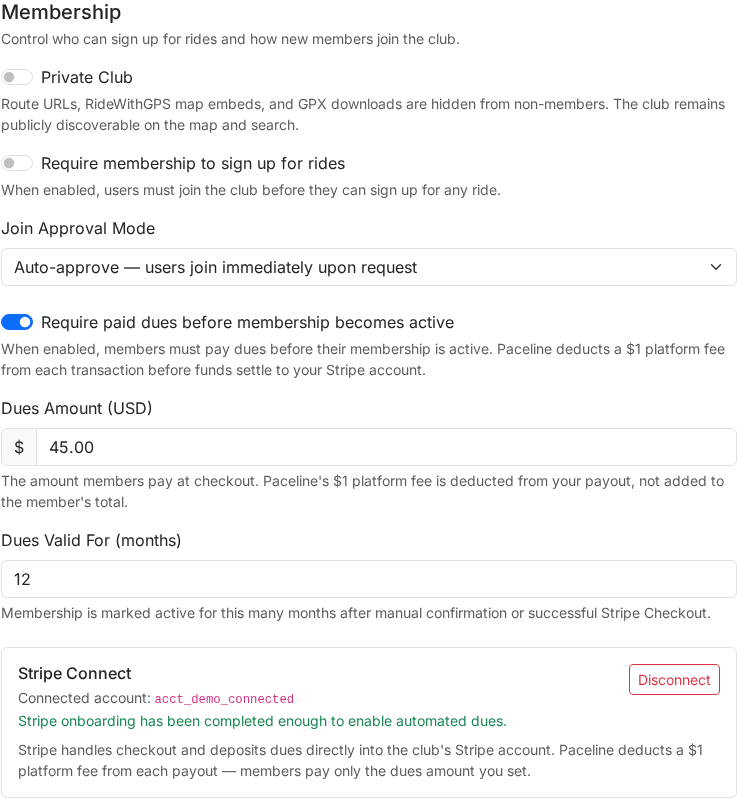
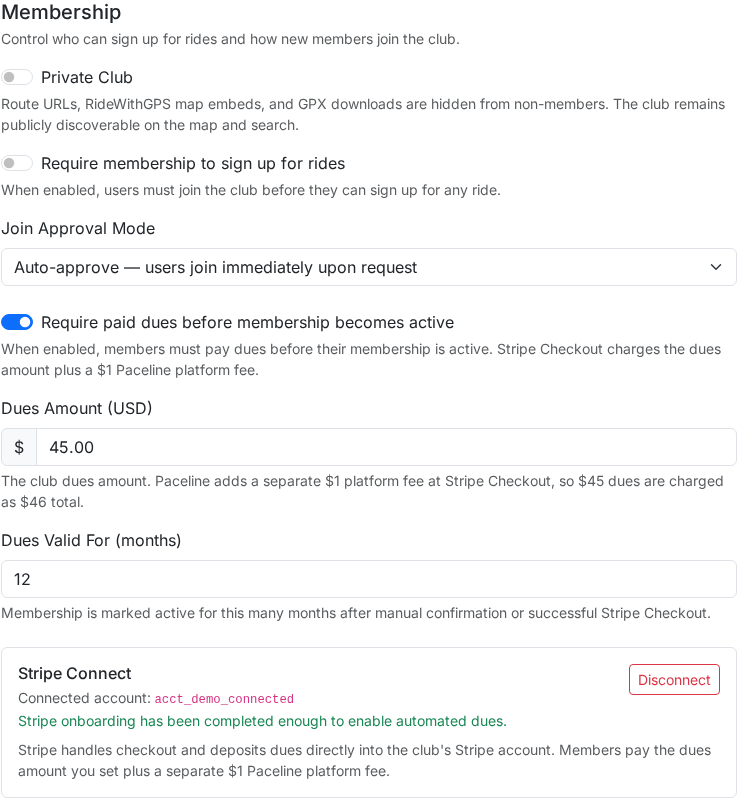
v0.122: finalize launch readiness and Stripe fee flow

diff --git a/app/templates/admin/club_settings.html b/app/templates/admin/club_settings.html
@@ -298,7 +298,7 @@
             {{ form.membership_dues_required(class="form-check-input", role="switch", id="membership_dues_required") }}
             {{ form.membership_dues_required.label(class="form-check-label", for="membership_dues_required") }}
           </div>
-          <div class="form-text">When enabled, members must pay dues before their membership is active. Paceline deducts a $1 platform fee from each transaction before funds settle to your Stripe account.</div>
+          <div class="form-text">When enabled, members must pay dues before their membership is active. Stripe Checkout charges the dues amount plus a $1 Paceline platform fee.</div>
         </div>
 
         <div class="mb-3">
@@ -308,7 +308,7 @@
             {{ form.membership_dues_amount(class="form-control" + (" is-invalid" if form.membership_dues_amount.errors else ""), placeholder="40.00", min="1", step="0.01") }}
             {% for e in form.membership_dues_amount.errors %}<div class="invalid-feedback">{{ e }}</div>{% endfor %}
           </div>
-          <div class="form-text">The amount members pay at checkout. Paceline's $1 platform fee is deducted from your payout, not added to the member's total.</div>
+          <div class="form-text">The club dues amount. Paceline adds a separate $1 platform fee at Stripe Checkout, so $45 dues are charged as $46 total.</div>
         </div>
 
         <div class="mb-4">
@@ -347,7 +347,7 @@
               {% endif %}
             </div>
           </div>
-          <div class="form-text mt-2">Stripe handles checkout and deposits dues directly into the club's Stripe account. Paceline deducts a $1 platform fee from each payout — members pay only the dues amount you set.</div>
+          <div class="form-text mt-2">Stripe handles checkout and deposits dues directly into the club's Stripe account. Members pay the dues amount you set plus a separate $1 Paceline platform fee.</div>
         </div>
 
         </div>{# /membership-section #}

diff --git a/app/templates/help/club_managers.html b/app/templates/help/club_managers.html
@@ -339,12 +339,11 @@
         </p>
         <p class="section-body">
           Payments are processed as <strong>direct charges</strong> on your club's
-          connected Stripe account, meaning the funds go directly into your club's
-          Stripe balance. Paceline does not hold club dues — it acts only as a
-          platform facilitator. Paceline deducts a <strong>$1 platform fee</strong>
-          from each transaction before the funds settle to your Stripe account. The
-          rider sees only the dues amount you set; the $1 comes from the club's
-          payout, not from the member's card total. Clubs handle their own refunds,
+          connected Stripe account, meaning the charge is created on your club's
+          Stripe account. Paceline does not hold club dues — it acts only as a
+          platform facilitator. Paceline adds a separate <strong>$1 platform fee</strong>
+          to each checkout. For example, if your club sets dues at $45, the rider
+          pays $46 total at Stripe Checkout. Clubs handle their own refunds,
           payment questions, and disputes through their Stripe account. Paceline's
           $1 platform fee is not refunded when a club refunds dues.
         </p>
@@ -369,8 +368,8 @@
           </li>
           <li>
             Enter the <strong>Dues Amount</strong> — the amount your club charges
-            per membership period. This is what the member pays; Paceline's $1
-            platform fee comes from the club's payout.
+            per membership period. Paceline adds a separate $1 platform fee at
+            checkout, so $45 dues are charged as $46 total.
           </li>
           <li>
             Set the <strong>Membership Duration</strong> in months. Paceline

diff --git a/app/templates/clubs/home.html b/app/templates/clubs/home.html
@@ -102,7 +102,7 @@
             <input type="hidden" name="csrf_token" value="{{ csrf_token() }}" />
             <button class="btn btn-paceline">Pay Club Dues</button>
           </form>
-          <p class="text-white-50 small mb-0 mt-1">Your membership activates automatically after payment. Paceline deducts a $1 platform fee from the club payout; members pay only the dues amount set by the club.</p>
+          <p class="text-white-50 small mb-0 mt-1">Your membership activates automatically after payment. Stripe Checkout charges the club dues plus a $1 Paceline platform fee.</p>
           {% else %}
           <span class="btn btn-outline-light disabled">Payment Pending</span>
           <p class="text-white-50 small mb-0 mt-1">A club admin needs to confirm your dues payment.</p>

diff --git a/app/templates/help/riders.html b/app/templates/help/riders.html
@@ -97,8 +97,9 @@
           active automatically — you do not need to wait for a club admin to confirm.
         </p>
         <p class="section-body">
-          The amount you see at Stripe Checkout is exactly what the club set as
-          their dues amount. Paceline does not add any fees visible to you.
+          The amount you see at Stripe Checkout is the club dues amount plus a
+          separate $1 Paceline platform fee. For example, if the club sets dues
+          at $45, Stripe Checkout charges $46 total.
         </p>
         <figure class="mb-0">
           <img class="img-fluid rounded border shadow-sm"

diff --git a/app/stripe_connect.py b/app/stripe_connect.py
@@ -90,9 +90,9 @@ def retrieve_connected_account(account_id):
 def create_checkout_session(*, club, user, membership, payment, success_url, cancel_url):
     """Create a Checkout Session as a direct charge on the club's connected account.
 
-    The platform fee (application_fee_amount) is deducted from the charge
-    before the remaining funds settle to the connected account. The fee is
-    invisible to the customer — they see only the membership line item.
+    The member pays the club dues amount plus Paceline's platform fee. Stripe
+    creates the charge on the connected club account and transfers the platform
+    fee to Paceline with application_fee_amount.
 
     The webhook that handles checkout.session.completed must be registered
     in the Stripe dashboard as a Connect webhook so it receives events from
@@ -103,6 +103,9 @@ def create_checkout_session(*, club, user, membership, payment, success_url, can
         raise StripeConnectError('This club has not connected Stripe.')
 
     platform_fee_cents = current_app.config.get('STRIPE_PLATFORM_FEE_CENTS', 100)
+    club_dues_cents = payment.amount_cents - platform_fee_cents
+    if club_dues_cents <= 0:
+        raise StripeConnectError('Invalid dues amount for checkout.')
 
     data = {
         'mode': 'payment',
@@ -112,14 +115,21 @@ def create_checkout_session(*, club, user, membership, payment, success_url, can
         'customer_email': user.email,
         'line_items[0][quantity]': '1',
         'line_items[0][price_data][currency]': club.membership_dues_currency or 'usd',
-        'line_items[0][price_data][unit_amount]': str(payment.amount_cents),
+        'line_items[0][price_data][unit_amount]': str(club_dues_cents),
         'line_items[0][price_data][product_data][name]': f'{club.name} — {club.membership_duration_months}-Month Membership',
         'line_items[0][price_data][product_data][description]': 'Cycling club membership',
+        'line_items[1][quantity]': '1',
+        'line_items[1][price_data][currency]': club.membership_dues_currency or 'usd',
+        'line_items[1][price_data][unit_amount]': str(platform_fee_cents),
+        'line_items[1][price_data][product_data][name]': 'Paceline platform fee',
+        'line_items[1][price_data][product_data][description]': 'Supports Paceline payment processing and platform development',
         'payment_intent_data[application_fee_amount]': str(platform_fee_cents),
         'metadata[payment_id]': str(payment.id),
         'metadata[club_id]': str(club.id),
         'metadata[user_id]': str(user.id),
         'metadata[membership_id]': str(membership.id),
+        'metadata[club_dues_amount_cents]': str(club_dues_cents),
+        'metadata[platform_fee_cents]': str(platform_fee_cents),
     }
 
     # Direct charge: session is created on the connected account.

diff --git a/tests/test_stripe_connect_dues.py b/tests/test_stripe_connect_dues.py
@@ -111,6 +111,7 @@ def test_connect_return_marks_account_connected_when_charges_enabled(client, app
 
 def test_stripe_checkout_creates_payment_and_redirects(client, app, db, sample_club, regular_user, monkeypatch):
     app.config['STRIPE_SECRET_KEY'] = 'sk_test_fake'
+    app.config['STRIPE_PLATFORM_FEE_CENTS'] = 100
     sample_club.membership_dues_required = True
     sample_club.membership_dues_mode = 'stripe_connect'
     sample_club.membership_dues_amount_cents = 4500
@@ -121,7 +122,7 @@ def test_stripe_checkout_creates_payment_and_redirects(client, app, db, sample_c
 
     def fake_checkout(**kwargs):
         assert kwargs['club'].id == sample_club.id
-        assert kwargs['payment'].amount_cents == 4500
+        assert kwargs['payment'].amount_cents == 4600
         return {'id': 'cs_test_123', 'url': 'https://checkout.stripe.com/c/pay'}
 
     monkeypatch.setattr('app.routes.stripe_connect.create_checkout_session', fake_checkout)
@@ -226,7 +227,7 @@ def test_create_checkout_session_direct_charge(app):
     - Stripe-Account header routes the call to the connected account
     - application_fee_amount carries the platform fee
     - no transfer_data[destination] (that's destination charges, not direct)
-    - only one line item visible to the customer
+    - customer sees the club dues line item plus Paceline's $1 platform fee
     """
     from app.stripe_connect import create_checkout_session
 
@@ -244,7 +245,7 @@ def test_create_checkout_session_direct_charge(app):
 
     payment = MagicMock()
     payment.id = 1
-    payment.amount_cents = 2000
+    payment.amount_cents = 2100
     payment.club_id = 1
     payment.user_id = 1
 
@@ -271,11 +272,13 @@ def test_create_checkout_session_direct_charge(app):
     assert posted_data['payment_intent_data[application_fee_amount]'] == '100', (
         'Platform $1 fee missing — application_fee_amount must be 100 cents'
     )
+    assert posted_data['line_items[0][price_data][unit_amount]'] == '2000'
+    assert posted_data['line_items[1][price_data][unit_amount]'] == '100'
+    assert posted_data['line_items[1][price_data][product_data][name]'] == 'Paceline platform fee'
+    assert posted_data['metadata[club_dues_amount_cents]'] == '2000'
+    assert posted_data['metadata[platform_fee_cents]'] == '100'
     assert 'payment_intent_data[transfer_data][destination]' not in posted_data, (
         'transfer_data[destination] must not be set for direct charges'
-    )
-    assert 'line_items[1][price_data][product_data][name]' not in posted_data, (
-        'No second line item — platform fee is silent (application_fee_amount), not a visible line item'
     )
 
 

diff --git a/tests/test_beta_gate.py b/tests/test_beta_gate.py
@@ -1,0 +1,39 @@
+from app import create_app
+from app.config import Config
+
+
+class BetaGateConfig(Config):
+    TESTING = False
+    SQLALCHEMY_DATABASE_URI = 'sqlite:///:memory:'
+    SQLALCHEMY_ENGINE_OPTIONS = {}
+    WTF_CSRF_ENABLED = False
+    COOKIE_SECURE = False
+    SESSION_COOKIE_SECURE = False
+    REMEMBER_COOKIE_SECURE = False
+    SECRET_KEY = 'beta-gate-test-secret'
+
+
+def _beta_app(monkeypatch):
+    monkeypatch.setenv('BETA_PASSWORD', 'letmein')
+    monkeypatch.setenv('FLASK_SKIP_SCHEDULER', '1')
+    return create_app(BetaGateConfig)
+
+
+def test_beta_gate_preserves_safe_relative_next(monkeypatch):
+    app = _beta_app(monkeypatch)
+    client = app.test_client()
+
+    resp = client.post('/_beta', data={'password': 'letmein', 'next': '/clubs/'})
+
+    assert resp.status_code == 302
+    assert resp.headers['Location'] == '/clubs/'
+
+
+def test_beta_gate_rejects_external_next_redirect(monkeypatch):
+    app = _beta_app(monkeypatch)
+    client = app.test_client()
+
+    resp = client.post('/_beta', data={'password': 'letmein', 'next': 'https://evil.example/phish'})
+
+    assert resp.status_code == 302
+    assert resp.headers['Location'] == '/'

diff --git a/app/routes/beta_gate.py b/app/routes/beta_gate.py
@@ -7,6 +7,7 @@ To remove permanently: delete this file and the register_beta_gate() call in app
 """
 import os
 from flask import request, session, redirect, url_for, render_template_string
+from ..utils import is_safe_url
 
 _PAGE = """<!doctype html>
 <html lang="en">
@@ -62,7 +63,8 @@ def register_beta_gate(app):
     @app.route('/_beta', methods=['GET', 'POST'], endpoint='_beta_login')
     @csrf.exempt
     def _beta_login():
-        next_url = request.args.get('next') or request.form.get('next') or '/'
+        requested_next = request.args.get('next') or request.form.get('next') or '/'
+        next_url = requested_next if is_safe_url(requested_next) else '/'
         if request.method == 'POST':
             if request.form.get('password') == password:
                 session['_beta_ok'] = True

diff --git a/app/routes/stripe_connect.py b/app/routes/stripe_connect.py
@@ -130,11 +130,12 @@ def dues_checkout(slug):
     else:
         membership.status = 'pending_payment'
 
+    platform_fee_cents = current_app.config.get('STRIPE_PLATFORM_FEE_CENTS', 100)
     payment = ClubMembershipPayment(
         club_id=club.id,
         user_id=current_user.id,
         membership_id=membership.id,
-        amount_cents=club.membership_dues_amount_cents,
+        amount_cents=club.membership_dues_amount_cents + platform_fee_cents,
         currency=club.membership_dues_currency or 'usd',
     )
     db.session.add(payment)

diff --git a/tests/test_help.py b/tests/test_help.py
@@ -36,6 +36,7 @@ def test_club_manager_help_page(client):
     assert b'does not hold club dues' in resp.data
     assert b'direct charges' in resp.data
     assert b'$1 platform fee' in resp.data
+    assert b'$45 dues are charged as $46 total' in resp.data
     assert b'is not refunded' in resp.data
     assert b'Clubs handle their own refunds' in resp.data
     assert b'future club store feature' in resp.data

diff --git a/app/version.py b/app/version.py
@@ -1,1 +1,1 @@
-__version__ = "0.119"
+__version__ = "0.122"

diff --git a/docs/launch_readiness.md b/docs/launch_readiness.md
@@ -1,0 +1,104 @@
+# Public Beta Launch Readiness
+
+Use this as the final owner-facing checklist before opening Paceline beyond the
+current beta audience. The app-side work is largely automated or documented; the
+remaining highest-risk items are external-account setup and real-world payment,
+email, and device validation.
+
+## App-Side Items Covered
+
+- Production config guard rejects the development `SECRET_KEY` when secure
+  cookies are enabled.
+- Session cookies default to `Secure`, `HttpOnly`, and `SameSite=Lax`.
+- Password sign-ins require re-authentication after 6 hours unless the user
+  chooses **Trust this browser**.
+- Google OAuth state is validated and first-time Google users must choose a
+  unique Paceline username before the account is complete.
+- Password setup/reset links are email-verified and password changes revoke
+  existing sessions.
+- MFA backup codes are single-use and session revocation is tested.
+- Stripe Connect dues use direct charges on the connected club account with a
+  `$1` Paceline application fee.
+- Stripe webhooks require a valid signature; duplicate checkout webhooks are
+  idempotent.
+- Club dues activation happens from signed webhook events, not browser redirects.
+- XSS regression coverage exists for board posts, replies, ride comments,
+  platform news, feedback, and Markdown-rendered content.
+- Help documentation covers rider security, notifications, dues, Stripe Connect,
+  club management, embeds, advanced ride options, and ownership transfer.
+- The beta gate no longer redirects to external `next` URLs after successful
+  password entry.
+
+## Owner Tasks Before Public Launch
+
+### Google OAuth
+
+- Verify `paceline.club` in Google Cloud Console.
+- Set the OAuth consent screen to production when approved.
+- Add the production redirect URI:
+  `https://paceline.club/auth/google/callback`.
+- Confirm the consent screen shows Paceline branding, support email, privacy
+  policy URL, and data-use/terms links.
+- Complete a real Google registration and first-username setup on production.
+
+### Stripe Live Mode
+
+- Rotate any live Stripe keys that were pasted into chat, logs, or local files
+  before accepting real payments.
+- Put live Stripe values in DigitalOcean App Platform:
+  `STRIPE_SECRET_KEY`, `STRIPE_CONNECT_WEBHOOK_SECRET`, and
+  `STRIPE_PLATFORM_FEE_CENTS=100`. `STRIPE_PUBLISHABLE_KEY` is optional for
+  future client-side Stripe flows; current club-dues Checkout Sessions are
+  created server-side.
+- Create `/stripe/webhook` as a **Connect webhook** with **Listen to events on
+  connected accounts** enabled.
+- Subscribe the Connect webhook to:
+  `checkout.session.completed`, `payment_intent.payment_failed`, and
+  `charge.failed`.
+- Run the live small-dollar validation in `docs/large_test_deployment.md`.
+- Confirm Stripe Checkout charges dues plus `$1` total, Stripe shows Paceline's
+  `$1` application fee, and the club receives the configured dues amount before
+  Stripe processing fees.
+
+### Email
+
+- Confirm Resend domain verification for `paceline.club`.
+- Confirm SPF, DKIM, and DMARC are passing.
+- Send and inspect real emails for password reset, club invite, ownership
+  transfer, feedback notification, cancellation, waitlist promotion, membership
+  approval/rejection, and dues reminders.
+- Verify Gmail and at least one non-Gmail inbox do not mark Paceline mail as
+  spam.
+
+### DigitalOcean and Data Safety
+
+- Confirm Managed PostgreSQL automated backups are enabled.
+- Confirm the restore process has been tested or at least rehearsed from the
+  documented commands.
+- Confirm Spaces credentials are set and private-club media access checks still
+  hold in production.
+- Confirm DigitalOcean alerts exist for app CPU/memory, PostgreSQL disk, and
+  Spaces storage/bandwidth.
+- Keep beta/test data cleanup separate from `phil@pcp.dev` and the Paceline Demo
+  Club.
+
+### Manual Browser and Device Pass
+
+- Test production on real iPhone Safari.
+- Test production on real Android Chrome if available.
+- Test desktop Chrome, Safari, and Firefox.
+- Confirm Google OAuth, Stripe Checkout handoff, profile-photo upload/crop, map
+  controls, and ride signup work on mobile.
+
+## Final Go/No-Go
+
+Do not open paid dues to real clubs until all of these are true:
+
+- Automated suites listed in `docs/large_test_deployment.md` pass.
+- Stripe sandbox checkout passes.
+- Live small-dollar checkout passes.
+- Webhook delivery activates membership.
+- A failed or canceled payment does not activate membership.
+- Real emails arrive with correct branding and acceptable deliverability.
+- Production logs show no recurring 500s during the rehearsal.
+- Remaining test clubs/users/media are cleaned up.
